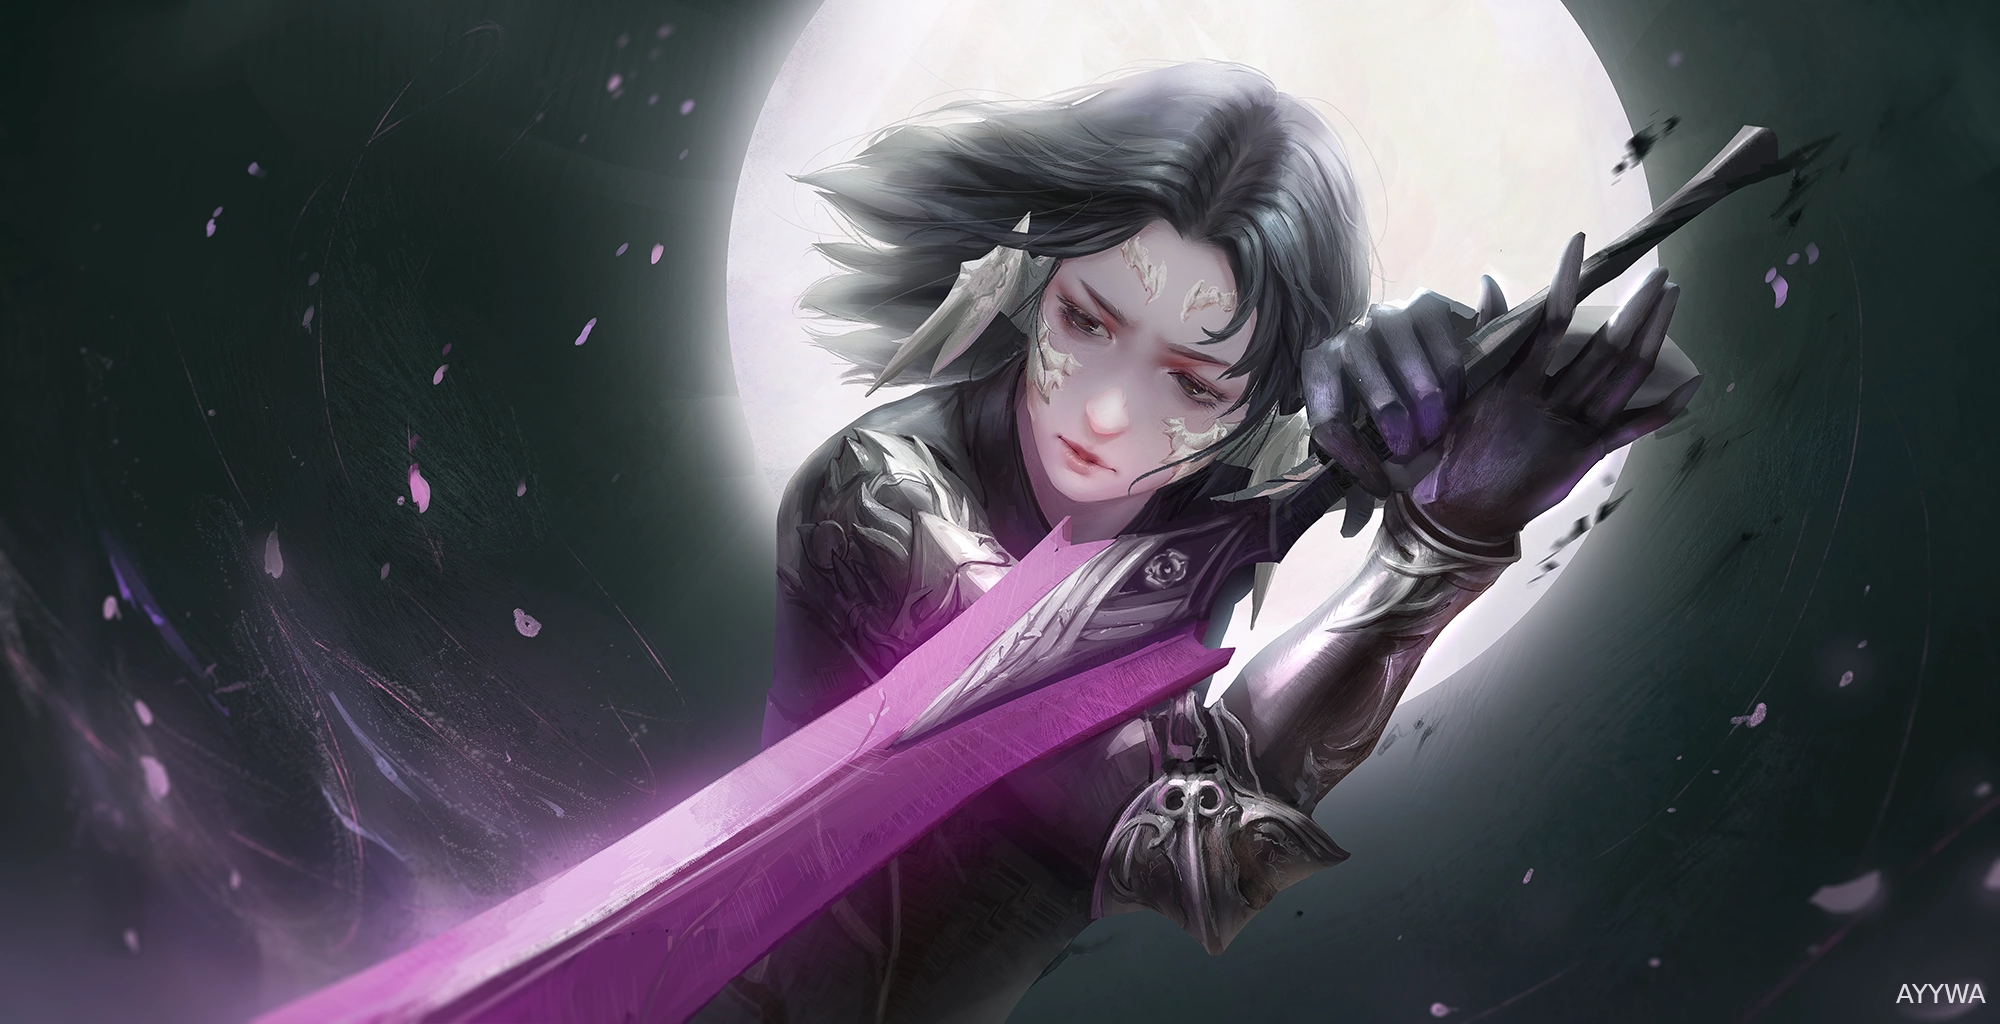
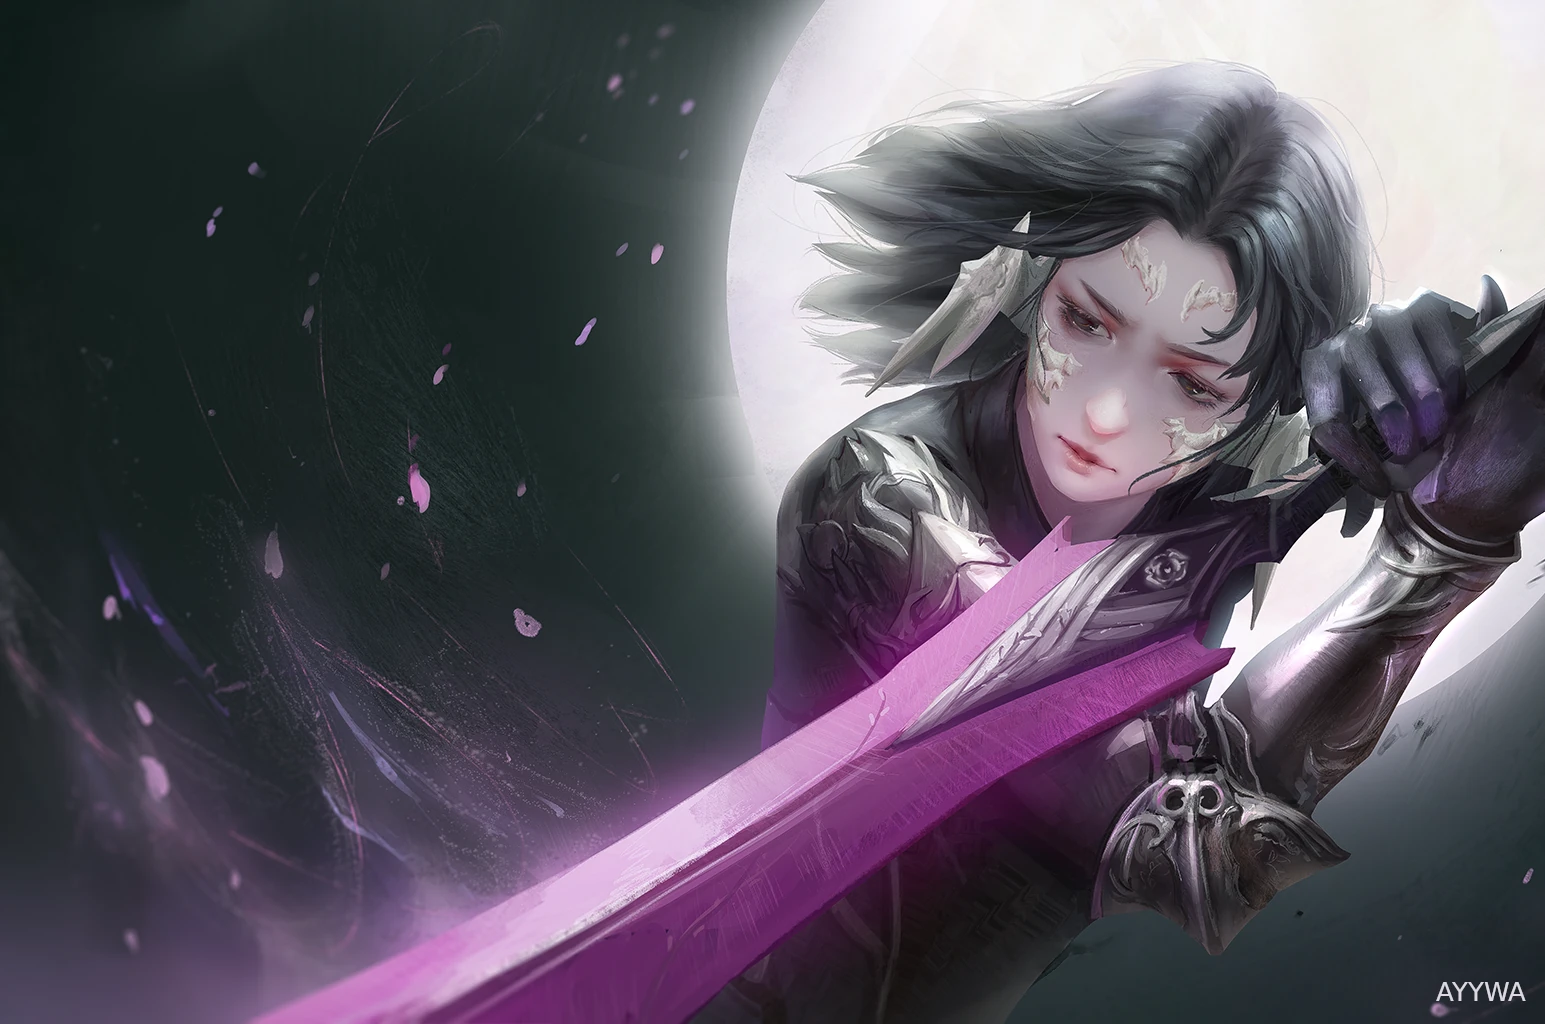
feature: new design

diff --git a/style/output.css b/style/output.css
@@ -935,6 +935,14 @@ video {
   background-position: center;
 }
 
+.bg-\[right_95\%_bottom_0\] {
+  background-position: right 95% bottom 0;
+}
+
+.bg-\[right_65\%_bottom_0\] {
+  background-position: right 65% bottom 0;
+}
+
 .bg-no-repeat {
   background-repeat: no-repeat;
 }
@@ -1187,6 +1195,10 @@ html {
   .sm\:hidden {
     display: none;
   }
+
+  .sm\:bg-center {
+    background-position: center;
+  }
 }
 
 @media (min-width: 768px) {
@@ -1215,8 +1227,20 @@ html {
          column-gap: 6rem;
   }
 
+  .md\:bg-cover {
+    background-size: cover;
+  }
+
   .md\:bg-\[right_70\%_bottom_0\] {
     background-position: right 70% bottom 0;
+  }
+
+  .md\:bg-\[right_85\%_bottom_0\] {
+    background-position: right 85% bottom 0;
+  }
+
+  .md\:bg-center {
+    background-position: center;
   }
 }
 

diff --git a/src/app.rs b/src/app.rs
@@ -109,7 +109,7 @@ pub fn App() -> impl IntoView {
 
         <Stylesheet id="leptos" href="/pkg/leptos_start.css"/>
         <Title text="Artcord"/>
-        <Body  class=move || format!("text-low-purple    bg-fixed bg-sword-lady bg-[right_85%_bottom_0] md:bg-[right_70%_bottom_0] xl:bg-center bg-cover bg-no-repeat  bg-dark-night2 {}", if global_state.nav_open.get() == true { "overflow-hidden w-screen h-[dvh]" } else { "" })  />
+        <Body  class=move || format!("text-low-purple    bg-fixed bg-sword-lady  bg-[right_65%_bottom_0] md:bg-center bg-cover bg-no-repeat  bg-dark-night2 {}", if global_state.nav_open.get() == true { "overflow-hidden w-screen h-[dvh]" } else { "" })  />
         <Router>
                 <Routes>
                     <Route path="" view=HomePage/>
